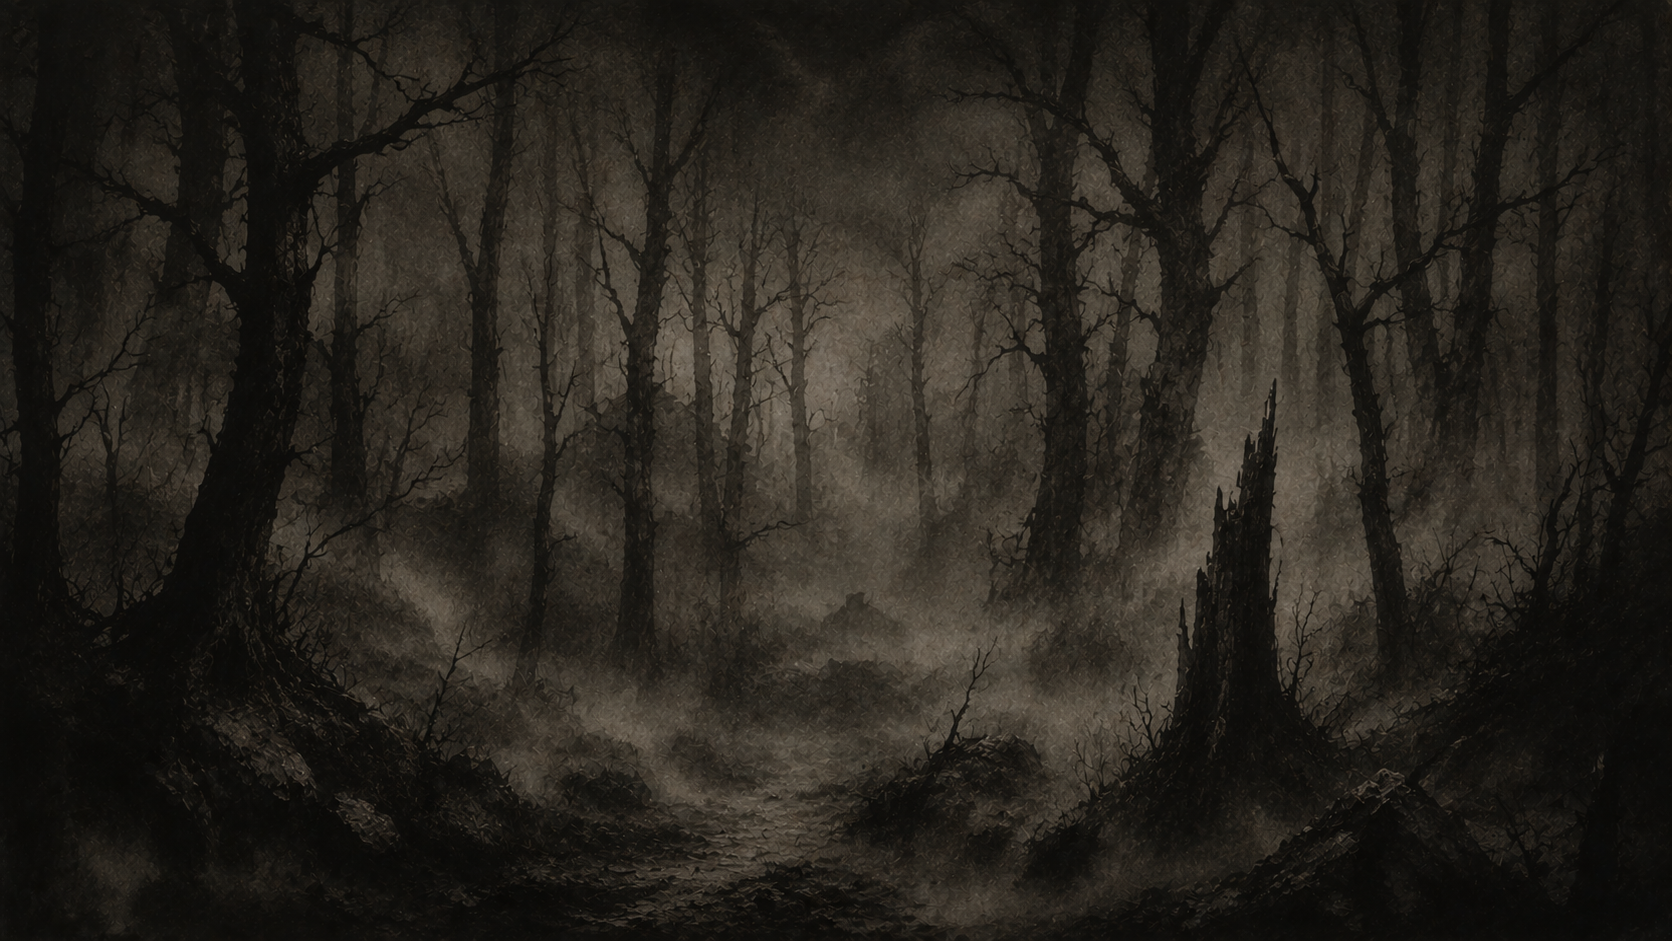
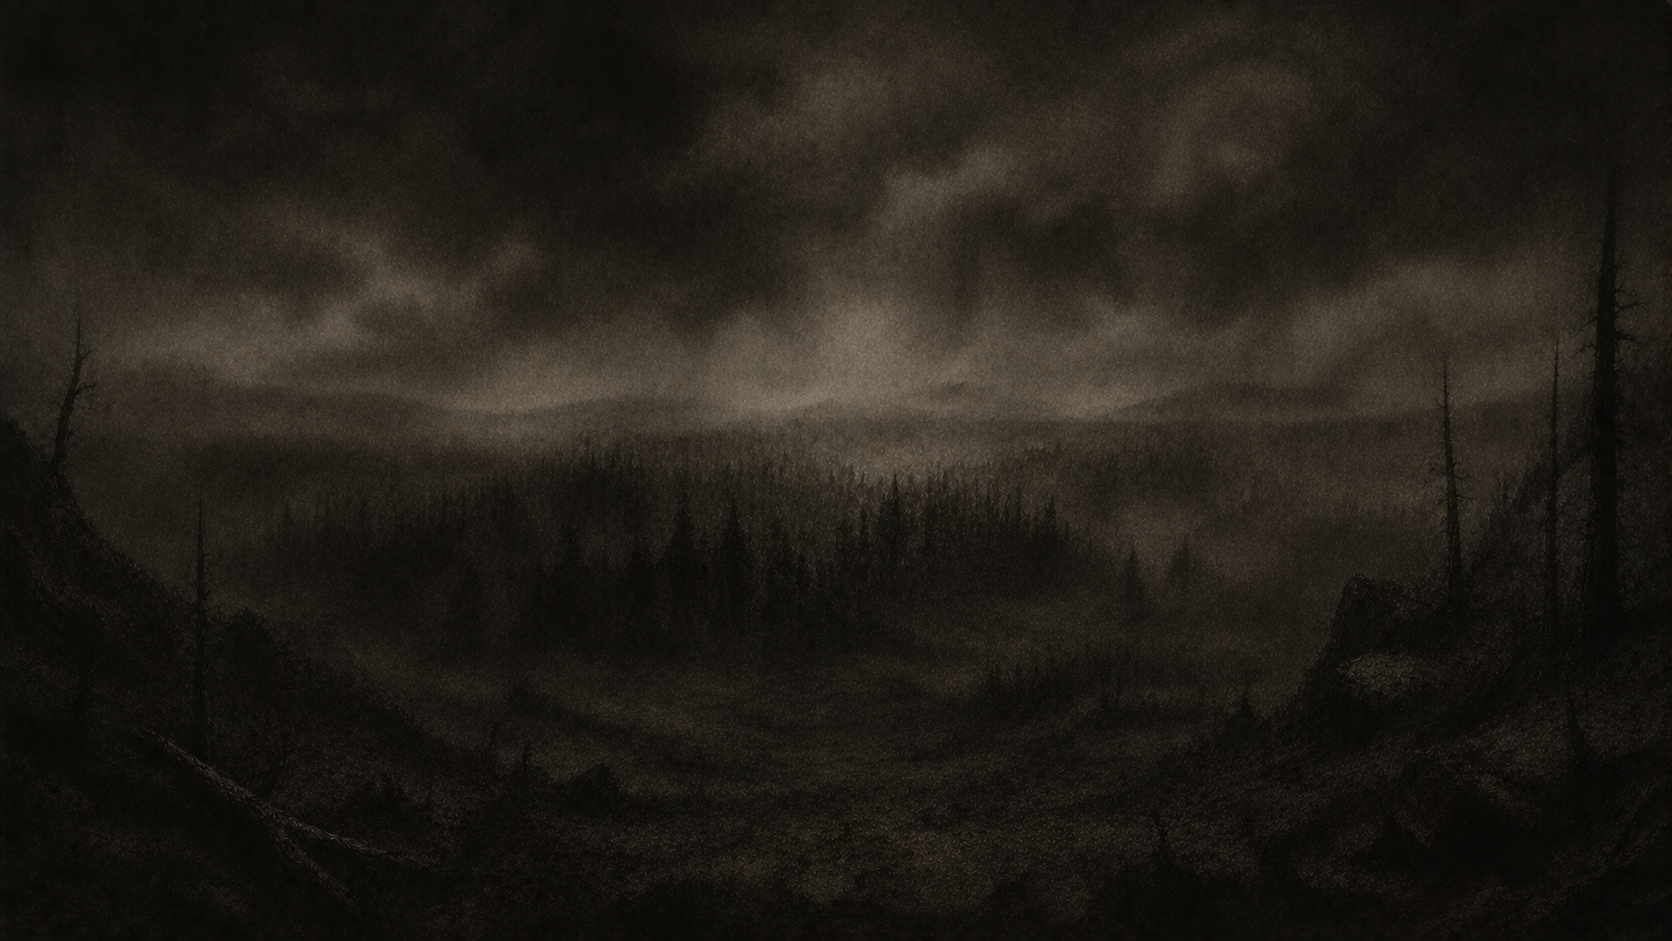
Dodanie kolejnych zdjęć i usprawnienia w ich wyświetlaniu

diff --git a/src/main/resources/com/runofashes/ui/screens.css b/src/main/resources/com/runofashes/ui/screens.css
@@ -46,9 +46,8 @@
 /* =========================================
    END SCREEN & WIN SCREEN
    ========================================= */
-.end-screen {
-    -fx-background-color: #0d0d1a;
-}
+.end-screen {}
+
 .end-title {
     -fx-text-fill: #e74c3c;
     -fx-font-size: 36px;
@@ -82,7 +81,7 @@
 }
 
 .end-box {
-    -fx-background-color: #151522;
+    -fx-background-color: rgba(21, 21, 34, 0.55);
     -fx-padding: 40 50;
     -fx-background-radius: 12;
     -fx-border-color: #4a1c1c;
@@ -97,7 +96,7 @@
 }
 
 .win-box {
-    -fx-background-color: #151522;
+    -fx-background-color: rgba(21, 21, 34, 0.55);
     -fx-padding: 40 50;
     -fx-background-radius: 12;
     -fx-border-color: #4a3c1c;

diff --git a/src/main/resources/com/runofashes/ui/panels.css b/src/main/resources/com/runofashes/ui/panels.css
@@ -87,7 +87,7 @@
     -fx-font-weight: bold;
 }
 .biome-desc {
-    -fx-text-fill: #999999;
+    -fx-text-fill: #efefef;
     -fx-font-size: 12px;
     -fx-font-style: italic;
 }

diff --git a/src/main/java/com/runofashes/ui/GameHUD.java b/src/main/java/com/runofashes/ui/GameHUD.java
@@ -100,7 +100,7 @@ public class GameHUD extends VBox {
 
         StackPane imageContainer = createFadedImageWrapper();
 
-        HBox bottomRow = new HBox(40, statsBox, imageContainer);
+        HBox bottomRow = new HBox(10, statsBox, imageContainer);
         bottomRow.setAlignment(Pos.CENTER_LEFT);
 
         getChildren().addAll(topRow, envRow, metaRow, bottomRow);
@@ -115,15 +115,23 @@ public class GameHUD extends VBox {
         Rectangle vignette = new Rectangle(240, 180);
 
         RadialGradient gradient = new RadialGradient(
-                0, 0, 0.5, 0.5, 0.45, true, CycleMethod.NO_CYCLE,
-                new Stop(0, Color.TRANSPARENT),
+                0, 0, 0.5, 0.5, 0.5, true, CycleMethod.NO_CYCLE,
                 new Stop(0.3, Color.TRANSPARENT),
-                new Stop(1, Color.web("#1a1a2e", 1.0))
+                new Stop(0.75, Color.web("#1a1a2e", 0.6)),
+                new Stop(1.0, Color.web("#1a1a2e", 1.0))
         );
         vignette.setFill(gradient);
 
         StackPane container = new StackPane(eventImageView, vignette);
+        container.setMinSize(240, 180);
+        container.setMaxSize(240, 180);
         container.setPrefSize(240, 180);
+
+        Rectangle clipRect = new Rectangle(240, 180);
+        clipRect.setArcWidth(16);
+        clipRect.setArcHeight(16);
+        container.setClip(clipRect);
+
         return container;
     }
 
@@ -136,53 +144,50 @@ public class GameHUD extends VBox {
         }
     }
 
-    // --- NOWA METODA - SKANER KART ---
     public void setEventImage(GameEvent event) {
         if (event == null || event.getId() == null) return;
 
         String eventId = event.getId().toLowerCase();
-        String imageName = "event_default.png";
+        String imageName;
 
-        if (eventId.contains("village") || eventId.contains("wies") || eventId.contains("chata") || eventId.contains("inn") || eventId.contains("shelter")
-            || eventId.contains("cellar")) {
-            imageName = "village.png";
-        } else if (eventId.contains("well")) {
-            imageName = "well.png";
-        } else if (eventId.contains("rest") || eventId.contains("sleep") || eventId.contains("camp") || eventId.contains("nap")
-                || eventId.contains("fire") || eventId.contains("massage") || eventId.contains("candle") || eventId.contains("tent") || eventId.contains("blisters")
-                || eventId.contains("acorns") || eventId.contains("smoke") || eventId.contains("strip")) {
-            imageName = "camp.png";
-        } else if (eventId.contains("water") || eventId.contains("river") || eventId.contains("stream") || eventId.contains("drink") || eventId.contains("rain")
-                || eventId.contains("ford") || eventId.contains("wash") || eventId.contains("fish") || eventId.contains("dig") || eventId.contains("wild")) {
-            imageName = "river.png";
-        } else if (eventId.contains("fight") || eventId.contains("soldier") || eventId.contains("wilki") || eventId.contains("guard")) {
-            imageName = "soldier.png";
-        } else if (eventId.contains("merchant") || eventId.contains("trade") || eventId.contains("buy") || eventId.contains("karawana") || eventId.contains("barter")) {
-            imageName = "merchant.png";
-        } else if (eventId.contains("monastery") || eventId.contains("church") || eventId.contains("cross") || eventId.contains("prayer") ||
-                eventId.contains("monk") || eventId.contains("bishop")) {
+        if (eventId.contains("ruin") || eventId.contains("zaraza") || eventId.contains("wawel") || eventId.contains("kordon") || eventId.contains("burned") || eventId.contains("wrak")) {
+            imageName = "ruins.png";
+        } else if (eventId.contains("rare") || eventId.contains("plague") || eventId.contains("ghost") || eventId.contains("grave") || eventId.contains("mad")) {
+            imageName = "spooky.png";
+        } else if (eventId.contains("monastery") || eventId.contains("church") || eventId.contains("cross") || eventId.contains("prayer") || eventId.contains("monk") || eventId.contains("bishop") || eventId.contains("breviary") || eventId.contains("altar") || eventId.contains("god") || eventId.contains("kultyci")) {
             imageName = "religion.png";
         } else if (eventId.contains("mountain") || eventId.contains("gory") || eventId.contains("lawina") || eventId.contains("szczelina")) {
             imageName = "mountains.png";
-        } else if (eventId.contains("forest") || eventId.contains("las") || eventId.contains("tree") || eventId.contains("wood") || eventId.contains("hunt")
-                || eventId.contains("berries") || eventId.contains("mushroom") || eventId.contains("trap") || eventId.contains("herbs")
-                || eventId.contains("nest") || eventId.contains("orchard")) {
-            imageName = "forest.png";
-        } else if (eventId.contains("morning") || eventId.contains("dawn") || eventId.contains("sunrise") || eventId.contains("sunset") || eventId.contains("night") ) {
-            imageName = "morning.png";
-        } else if (eventId.contains("cart") || eventId.contains("road") || eventId.contains("move") || eventId.contains("route")
-                || eventId.contains("wagon") || eventId.contains("horse") || eventId.contains("path") || eventId.contains("szlak")) {
-            imageName = "road.png";
-        } else if (eventId.contains("ruin") || eventId.contains("zaraza") || eventId.contains("wawel") || eventId.contains("kordon") || eventId.contains("burned")) {
-            imageName = "ruins.png";
         } else if (eventId.contains("cave") || eventId.contains("kopalnia") || eventId.contains("burza")) {
             imageName = "cave.png";
         } else if (eventId.contains("krakow") || eventId.contains("city")) {
             imageName = "city.png";
-        } else if (eventId.contains("rare") || eventId.contains("plague") || eventId.contains("ghost") || eventId.contains("grave") || eventId.contains("mad")) {
-            imageName = "spooky.png";
+        } else if (eventId.contains("village") || eventId.contains("wies") || eventId.contains("chata") || eventId.contains("inn") || eventId.contains("shelter") || eventId.contains("cellar")) {
+            imageName = "village.png";
+        } else if (eventId.contains("well")) {
+            imageName = "well.png";
+        } else if (eventId.contains("traveler") || eventId.contains("pilgrim") || eventId.contains("compatriot") || eventId.contains("przewodnik") || eventId.contains("sick") || eventId.contains("child") || eventId.contains("pustelnik") || eventId.contains("letter")) {
+            imageName = "npc.png";
+        } else if (eventId.contains("merchant") || eventId.contains("trade") || eventId.contains("buy") || eventId.contains("karawana") || eventId.contains("caravan") || eventId.contains("barter") || eventId.contains("handlarz")) {
+            imageName = "merchant.png";
+        } else if (eventId.contains("fight") || eventId.contains("soldier") || eventId.contains("guard")) {
+            imageName = "soldier.png";
+        } else if (eventId.contains("forest") || eventId.contains("las") || eventId.contains("tree") || eventId.contains("wood") || eventId.contains("hunt") || eventId.contains("berries") || eventId.contains("mushroom") || eventId.contains("trap") || eventId.contains("herbs") || eventId.contains("nest") || eventId.contains("orchard") || eventId.contains("wilki") || eventId.contains("field") || eventId.contains("fruit") || eventId.contains("melon") || eventId.contains("garlic")) {
+            imageName = "forest.png";
+        } else if (eventId.contains("water") || eventId.contains("river") || eventId.contains("stream") || eventId.contains("drink") || eventId.contains("rain") || eventId.contains("ford") || eventId.contains("wash") || eventId.contains("fish") || eventId.contains("dig") || eventId.contains("wild") || eventId.contains("woda") || eventId.contains("moss")) {
+            imageName = "river.png";
+        } else if (eventId.contains("morning") || eventId.contains("sunrise") || eventId.contains("sunset")) {
+            imageName = "morning.png";
+        } else if (eventId.contains("dawn") || eventId.contains("night") || eventId.contains("evening") || eventId.contains("dusk")) {
+            imageName = "night.png";
+        } else if (eventId.contains("rest") || eventId.contains("camp") || eventId.contains("nap") || eventId.contains("fire") || eventId.contains("massage") || eventId.contains("candle") || eventId.contains("tent") || eventId.contains("blisters") || eventId.contains("acorns") || eventId.contains("smoke") || eventId.contains("strip") || eventId.contains("stars") || eventId.contains("song") || eventId.contains("family") || eventId.contains("coin") || eventId.contains("warning") || eventId.contains("oddech") || eventId.contains("ostatni") || eventId.contains("map")) {
+            imageName = "camp.png";
         } else if (eventId.contains("bird")) {
             imageName = "birds.png";
+        } else if (eventId.contains("cart") || eventId.contains("road") || eventId.contains("move") || eventId.contains("route") || eventId.contains("wagon") || eventId.contains("horse") || eventId.contains("path") || eventId.contains("szlak")) {
+            imageName = "road.png";
+        } else {
+            imageName = "event_default.png";
         }
 
         setEventImage(imageName);

diff --git a/src/main/java/com/runofashes/utils/FileLoader.java b/src/main/java/com/runofashes/utils/FileLoader.java
@@ -3,10 +3,8 @@ package com.runofashes.utils;
 import javafx.geometry.Insets;
 import javafx.scene.image.Image;
 import javafx.scene.layout.*;
-import javafx.scene.paint.Color;
-import javafx.scene.paint.CycleMethod;
-import javafx.scene.paint.RadialGradient;
-import javafx.scene.paint.Stop;
+import javafx.scene.paint.*;
+
 import java.util.Objects;
 
 public final class FileLoader {
@@ -34,31 +32,42 @@ public final class FileLoader {
     }
 
     /**
+     * Tworzy tło (Background) z samym obrazkiem, bez winiety.
+     * Używać tam gdzie nie chcemy efektu zanikania (np. BiomePanel).
+     */
+    public static Background createPlainBackground(Image image) {
+        if (image == null) {
+            return Background.EMPTY;
+        }
+        ImagePattern imagePattern = new ImagePattern(image, 0, 0, 1, 1, true);
+        return new Background(new BackgroundFill(imagePattern, CornerRadii.EMPTY, Insets.EMPTY));
+    }
+
+    /**
      * Tworzy tło (Background) z efektem miękkiego RadialGradientu (winiety) wtapiającej grafikę z każdej strony.
      * @param image Obrazek bazowy
      * @param hexColor Kolor interfejsu, w który ma się wtopić obrazek (np. "#1a1a2e")
      */
     public static Background createFadedBackground(Image image, String hexColor) {
         if (image == null) {
-            return Background.EMPTY;
+            BackgroundFill solidFill = new BackgroundFill(Color.web(hexColor), CornerRadii.EMPTY, Insets.EMPTY);
+            return new Background(solidFill);
         }
 
-        BackgroundImage bgi = new BackgroundImage(
-                image,
-                BackgroundRepeat.NO_REPEAT,
-                BackgroundRepeat.NO_REPEAT,
-                BackgroundPosition.CENTER,
-                new BackgroundSize(BackgroundSize.AUTO, BackgroundSize.AUTO, false, false, false, true)
-        );
+        BackgroundFill solidFill = new BackgroundFill(Color.web(hexColor), CornerRadii.EMPTY, Insets.EMPTY);
+
+        ImagePattern imagePattern = new ImagePattern(image, 0, 0, 1, 1, true);
+        BackgroundFill imageFill = new BackgroundFill(imagePattern, CornerRadii.EMPTY, Insets.EMPTY);
 
         RadialGradient gradient = new RadialGradient(
-                0, 0, 0.5, 0.5, 0.45, true, CycleMethod.NO_CYCLE,
-                new Stop(0, Color.web(hexColor, 0.3)),   // Środek widoczny
-                new Stop(0.6, Color.web(hexColor, 0.7)), // Miękkie wejście cienia
-                new Stop(1, Color.web(hexColor, 1.0))    // 100% stopienia przed samą krawędzią
+                0, 0, 0.5, 0.5, 0.7, true, CycleMethod.NO_CYCLE,
+                new Stop(0.0, Color.web(hexColor, 0.0)),  // Środek: obrazek w pełni widoczny
+                new Stop(0.5, Color.web(hexColor, 0.2)),  // Delikatne wejście winiety
+                new Stop(0.75, Color.web(hexColor, 0.7)), // Miękkie ściemnienie
+                new Stop(1.0, Color.web(hexColor, 1.0))   // Krawędzie: pełne wtopienie w kolor tła
         );
         BackgroundFill vignetteFill = new BackgroundFill(gradient, CornerRadii.EMPTY, Insets.EMPTY);
 
-        return new Background(new BackgroundFill[]{vignetteFill}, new BackgroundImage[]{bgi});
+        return new Background(solidFill, imageFill, vignetteFill);
     }
 }

diff --git a/src/main/java/com/runofashes/ui/BiomePanel.java b/src/main/java/com/runofashes/ui/BiomePanel.java
@@ -48,7 +48,7 @@ public class BiomePanel extends StackPane {
         if (img == null) {
             img = com.runofashes.utils.FileLoader.loadUiImage("event_default.png");
         }
-        this.setBackground(com.runofashes.utils.FileLoader.createFadedBackground(img, "#1a1a2e"));
+        this.setBackground(com.runofashes.utils.FileLoader.createPlainBackground(img));
     }
 
     public VBox getStatusesBox() {
@@ -63,7 +63,7 @@ public class BiomePanel extends StackPane {
         String biomeName = currentBiome.name().toLowerCase();
         Image img = com.runofashes.utils.FileLoader.loadUiImage("biome_" + biomeName + ".png");
 
-        this.setBackground(com.runofashes.utils.FileLoader.createFadedBackground(img, "#1a1a2e"));
+        this.setBackground(com.runofashes.utils.FileLoader.createPlainBackground(img));
 
         titleFlow.getChildren().clear();
 

diff --git a/src/main/java/com/runofashes/ui/EventCardView.java b/src/main/java/com/runofashes/ui/EventCardView.java
@@ -15,7 +15,8 @@ public final class EventCardView {
     public static void fill(VBox card, GameEvent event, GameEngine engine, Consumer<GameEvent> onClick) {
         card.getChildren().clear();
 
-        card.getStyleClass().removeAll("event-card-wait", "event-card-main-quest", "event-card-quest", "event-card-rare", "event-card-normal", "event-card-empty");
+        card.getStyleClass().removeAll("event-card-wait", "event-card-main-quest", "event-card-quest",
+                "event-card-rare", "event-card-normal", "event-card-empty");
         card.getStyleClass().add("event-card");
         card.setOnMouseEntered(null);
         card.setOnMouseExited(null);

diff --git a/src/main/java/com/runofashes/engine/Inventory.java b/src/main/java/com/runofashes/engine/Inventory.java
@@ -12,7 +12,7 @@ public class Inventory {
     // ── Dodawanie itemów ──────────────────────────────────────────────────────
 
     public int add(ItemType type, int amount) {
-        if (amount <= 0) return 0;   // BUG FIX: add() tylko dla dodatnich wartości
+        if (amount <= 0) return 0;
         int current = items.getOrDefault(type, 0);
         int canAdd  = type.getMaxStack() - current;
         if (canAdd <= 0) return 0;

diff --git a/src/main/java/com/runofashes/engine/StatusManager.java b/src/main/java/com/runofashes/engine/StatusManager.java
@@ -86,7 +86,7 @@ public class StatusManager {
         return triggered;
     }
 
-    public boolean hasHallucinations()                      { return isActive(StatusEffect.HALLUCINATIONS); }
+    public boolean hasHallucinations() { return isActive(StatusEffect.HALLUCINATIONS); }
 
     // ── Prywatne helpers ──────────────────────────────────────────────────────
 

diff --git a/src/test/java/com/runofashes/WeatherTest.java b/src/test/java/com/runofashes/WeatherTest.java
@@ -33,8 +33,6 @@ public class WeatherTest {
         assertEquals(6, hot.getMaxTurns());
     }
 
-    // ── Nowe testy ────────────────────────────────────────────────────────────
-
     /**
      * Każda pogoda musi mieć wagę > 0.
      * Waga zerowa lub ujemna wykluczałaby daną pogodę z losowania całkowicie

diff --git a/src/test/java/com/runofashes/InventoryTest.java b/src/test/java/com/runofashes/InventoryTest.java
@@ -58,8 +58,6 @@ public class InventoryTest {
         assertFalse(used);
     }
 
-    // ── Nowe testy ────────────────────────────────────────────────────────────
-
     /**
      * Nowy ekwipunek powinien być pusty.
      * isEmpty() musi zwracać true, has() false dla każdego przedmiotu.

diff --git a/src/main/java/com/runofashes/model/Biome.java b/src/main/java/com/runofashes/model/Biome.java
@@ -92,7 +92,4 @@ public enum Biome {
         } while (next == current);
         return next;
     }
-
-
-
 }

diff --git a/src/main/java/com/runofashes/model/GameEvent.java b/src/main/java/com/runofashes/model/GameEvent.java
@@ -96,6 +96,4 @@ public class GameEvent {
             default          -> stat;
         };
     }
-
-
 }
